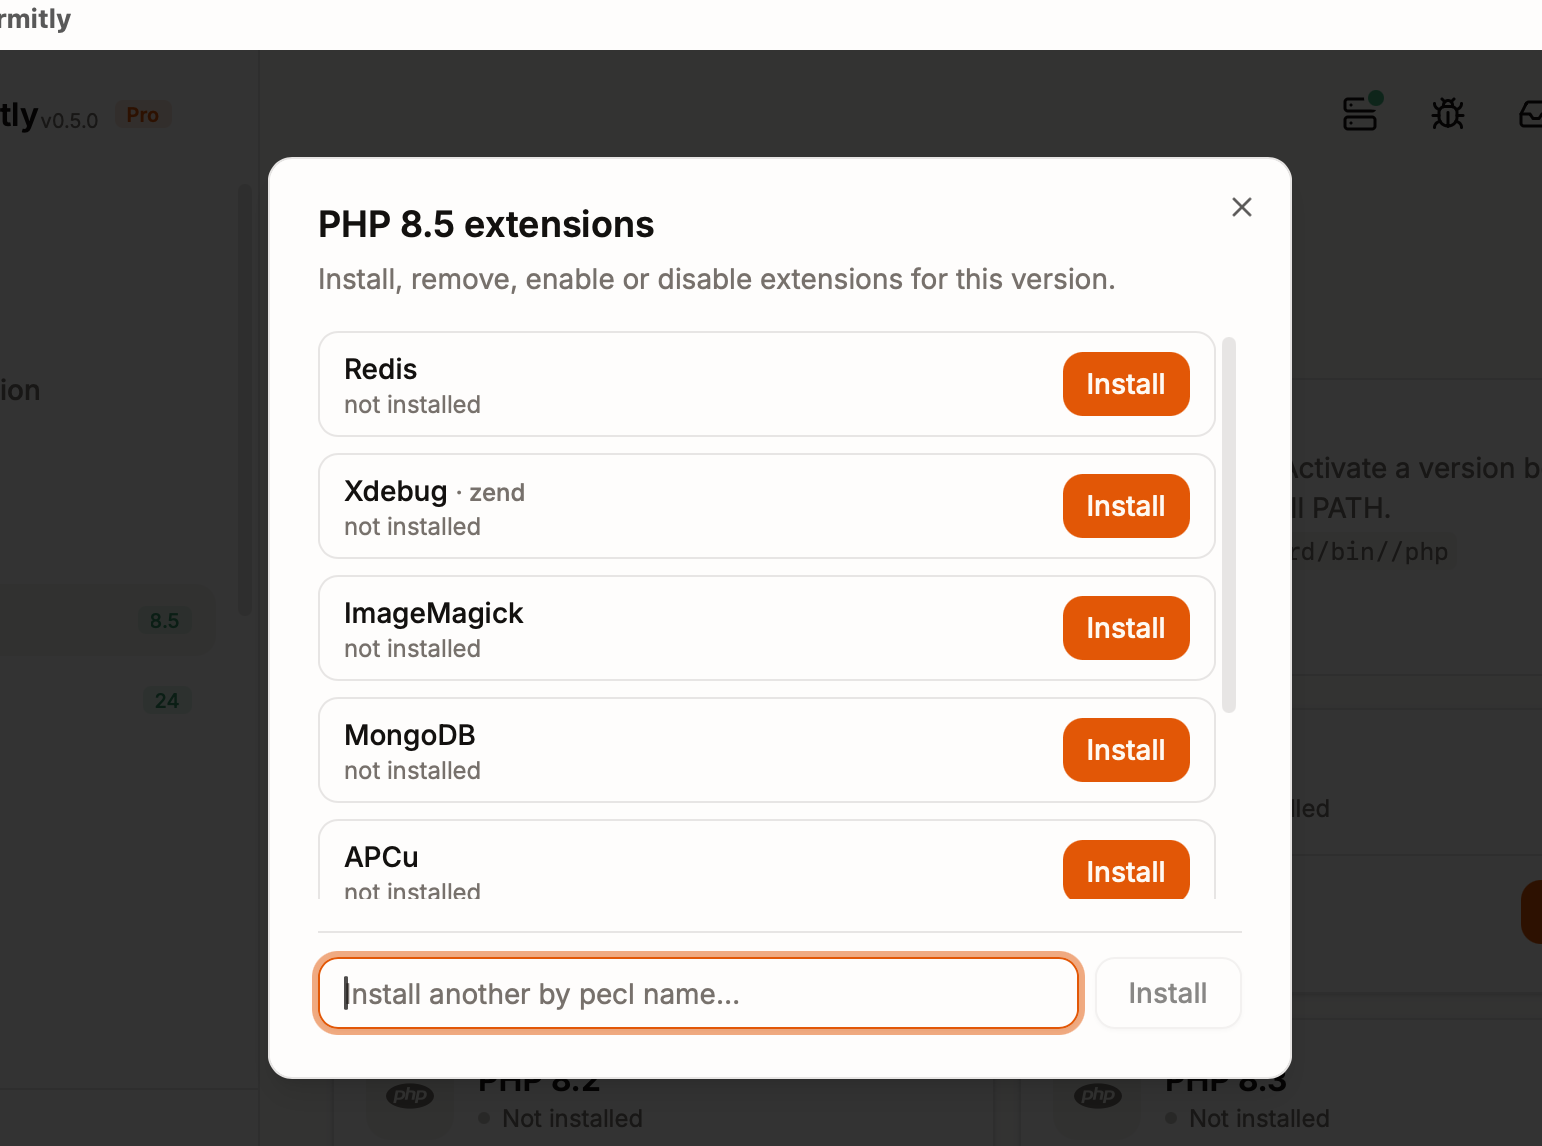
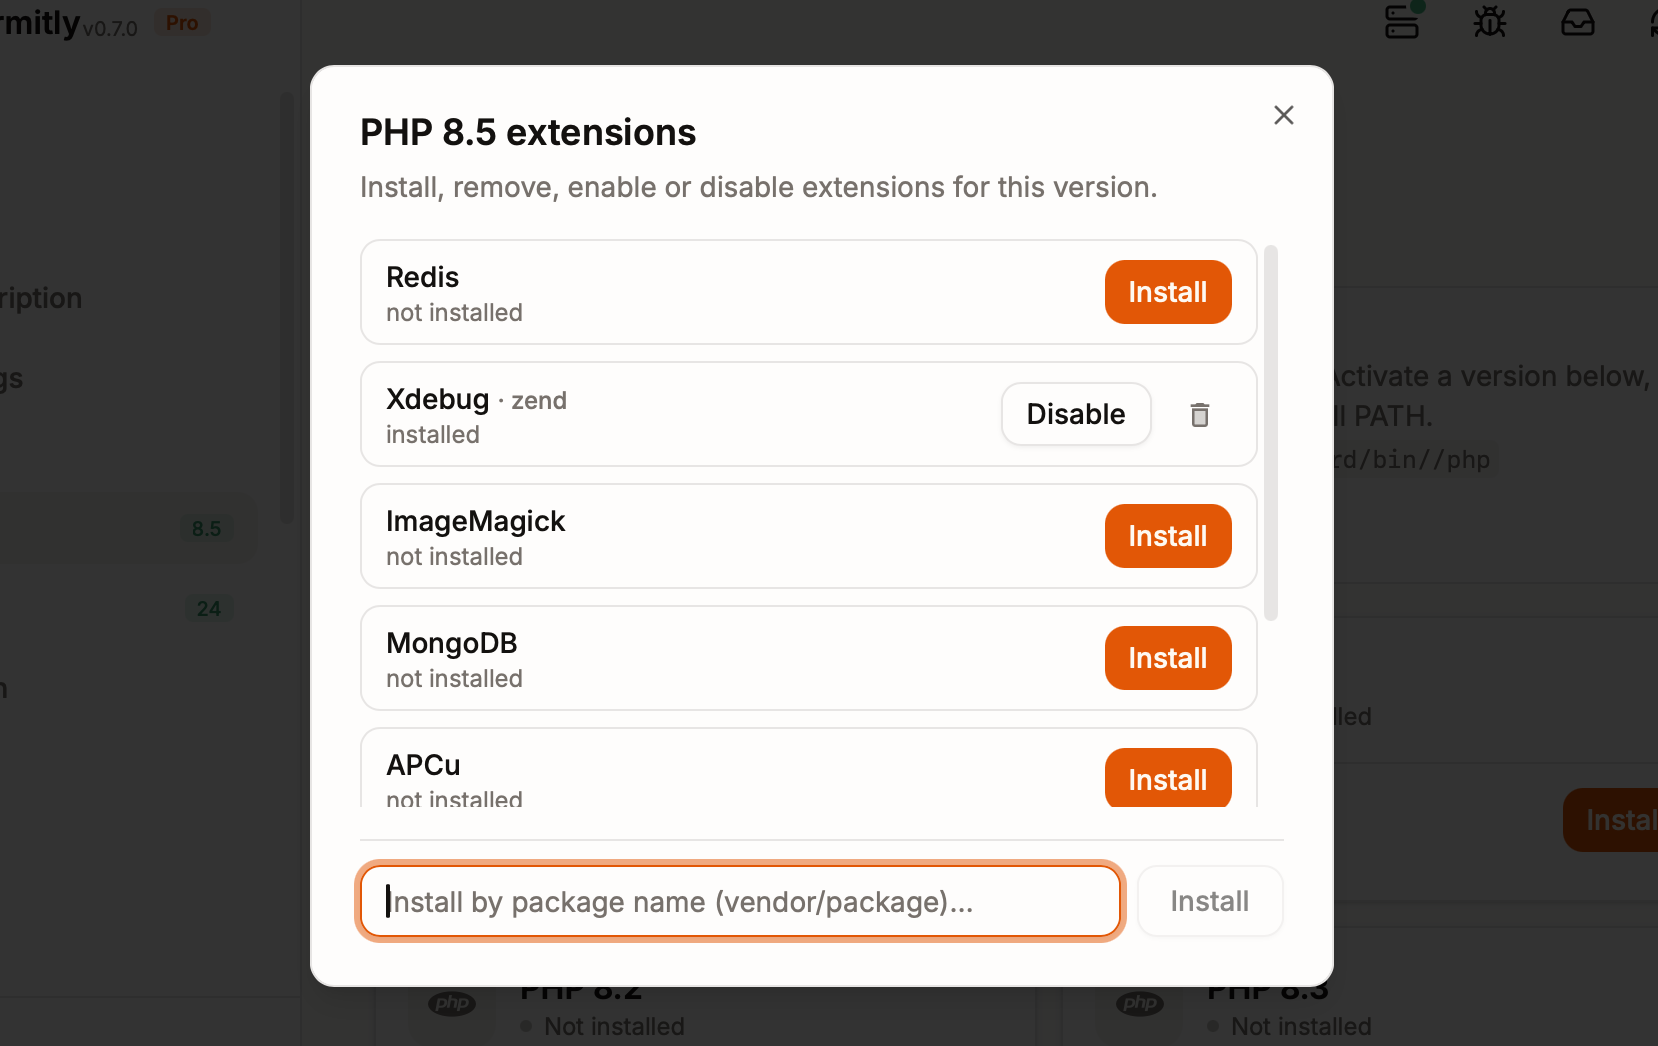
Update PHP extensions management: switch from pecl to PIE for installation and update documentation accordingly

diff --git a/docs/help/2026_07_13-php-extensions-von-pecl-auf-pie.md b/docs/help/2026_07_13-php-extensions-von-pecl-auf-pie.md
@@ -1,0 +1,54 @@
+# PHP-Extensions: Umstellung von pecl auf PIE
+
+## Datum
+
[phone redacted]
+
+## Bereich
+
+PHP-Verwaltung, Dokumentation (Guide)
+
+## Kurzbeschreibung
+
+Die Extension-Verwaltung der Peermitly-App installiert und baut PHP-Extensions jetzt über **PIE** (PHP Installer for Extensions) statt über das alte `pecl`. Der Guide "PHP versions & settings" und der Extensions-Screenshot wurden entsprechend angepasst.
+
+## Was ist neu?
+
+- Extensions werden intern über **PIE** installiert (der offizielle Nachfolger von `pecl`).
+- Freie Installation erfolgt jetzt über den **PIE-Paketnamen** im Format `vendor/package` (z. B. `xdebug/xdebug`) statt über den reinen pecl-Namen.
+- Der Screenshot `php_extensions.png` wurde ersetzt.
+
+## Warum wurde das geändert?
+
+`pecl` gilt als veraltet und wird nicht mehr aktiv weiterentwickelt. **PIE** ist der offizielle, von PHP gepflegte Nachfolger, nutzt Composer-artige Paketnamen und löst Abhängigkeiten sauberer auf. Damit sind Extension-Installationen zuverlässiger und zukunftssicher.
+
+## Wie funktioniert es?
+
+Die Bedienung im Extensions-Dialog bleibt gleich:
+
+1. Im **PHP**-Bereich auf das **Puzzle-Symbol** einer installierten Version klicken.
+2. Aus der kuratierten Liste eine Extension per **Install** auswählen — PIE baut sie für genau diese PHP-Version (Build-Log live sichtbar), aktiviert sie und startet FPM neu.
+3. **Enable/Disable** schaltet eine installierte Extension um, **Entfernen** deinstalliert sie.
+4. Über das Eingabefeld unten lässt sich jede Extension per **PIE-Paketname** (`vendor/package`, z. B. `xdebug/xdebug`) installieren.
+
+## Betroffene Bereiche
+
+- Guide-Seite `resources/js/docs/php.md` (Abschnitt "Manage extensions")
+- Screenshot `public/images/screenshots/php_extensions.png` (ersetzt)
+- App-Seite (Tauri): Extension-Installation von `pecl` auf PIE umgestellt
+
+## Wichtige Hinweise
+
+- Für Nutzer ändert sich die Bedienung **nicht** — nur der freie Installationsname folgt jetzt dem PIE-Format `vendor/package` statt dem reinen pecl-Namen.
+- Zum Kompilieren sind weiterhin die **Xcode Command Line Tools** nötig (`xcode-select --install`).
+- Extensions gelten weiterhin **pro PHP-Version**.
+- Kontrolle im Terminal: `php -m` listet die aktiven Extensions.
+
+## Beispiel
+
+Xdebug auf PHP 8.4 installieren: Puzzle-Symbol bei PHP 8.4 klicken, bei "Xdebug" auf **Install** — oder im Eingabefeld `xdebug/xdebug` eingeben. PIE baut und aktiviert die Extension, danach zeigt `php -m` den Eintrag `xdebug`.
+
+## Technische Notizen
+
+- App-Seite (Tauri): Statt des versionseigenen `pecl`-Binaries wird jetzt PIE aufgerufen; Aktivierung weiterhin per `extension=`/`zend_extension=`-Zeile in der `php.ini` der jeweiligen Version.
+- Kuratierte Liste unverändert (`php-extensions.json`), nur das Installations-Backend wurde getauscht.

diff --git a/resources/js/docs/php.md b/resources/js/docs/php.md
@@ -81,7 +81,7 @@ To change them:
 
 ## 🧱 Manage extensions
 
-Every installed PHP version has its own set of **extensions**, and Peermitly manages them for you — no `pecl` commands, no editing `php.ini` by hand. Click the **puzzle icon** on a version to open its extensions dialog.
+Every installed PHP version has its own set of **extensions**, and Peermitly manages them for you — no command line, no editing `php.ini` by hand. Under the hood Peermitly uses [PIE](https://github.com/php/pie) (the official PHP Installer for Extensions, the modern successor to `pecl`) to build and install them. Click the **puzzle icon** on a version to open its extensions dialog.
 
 ![Managing extensions for a PHP version](/images/screenshots/php_extensions.png)
 
@@ -90,7 +90,7 @@ Every installed PHP version has its own set of **extensions**, and Peermitly man
 - **Install** an extension with one click. Peermitly builds it for exactly that PHP version and shows the progress live. When it's done, the extension is enabled automatically and FPM is restarted.
 - **Enable / Disable** an installed extension without uninstalling it — handy for something like Xdebug, which you only want active while debugging.
 - **Remove** an extension you no longer need. The `php.ini` entry is cleaned up too.
-- **Install anything else by its pecl name** using the field at the bottom — you're not limited to the curated list.
+- **Install anything else by its PIE package name** (`vendor/package`, e.g. `xdebug/xdebug`) using the field at the bottom — you're not limited to the curated list.
 
 ### The curated list
 